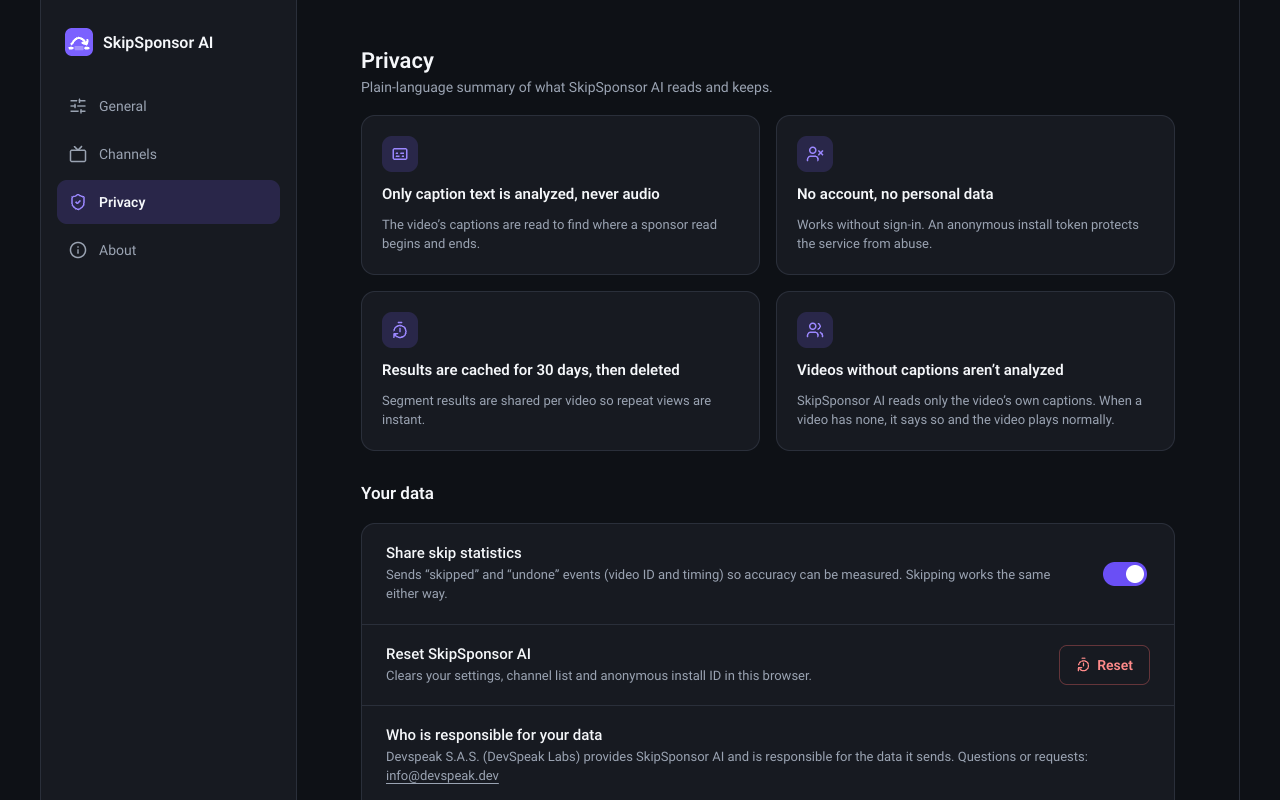
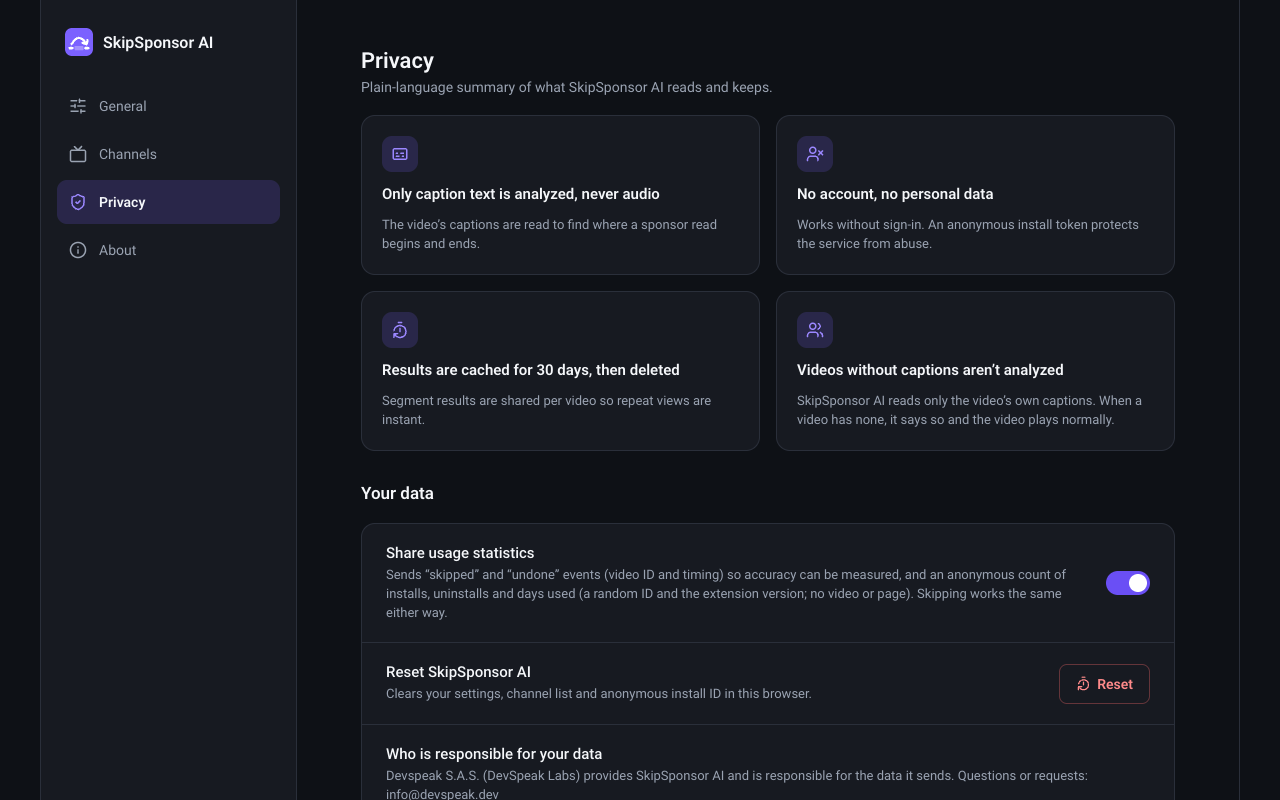
docs(store): marquee from brand art + real UI crops; Privacy screenshot with the usage switch
The marquee drops the 'Any language' chip and the designed player mock:
the right side is pure crops of the real popup and cut note from the store
screenshots (scripts/build-store-marquee.py). Screenshot 05 is recaptured
from the 1.1.0 store ZIP with 'Share usage statistics'.

diff --git a/scripts/build-store-marquee.py b/scripts/build-store-marquee.py
@@ -1,0 +1,83 @@
+#!/usr/bin/env python3
+"""Build the 1400x560 Chrome Web Store marquee from existing assets only.
+
+  python3 scripts/build-store-marquee.py
+
+Left: the brand lockup, headline and two feature chips cropped from the
+design export store/promo/marquee-1400x560.png (from design/SkipSponsorAI.pen),
+without the "Any language" chip (broader than what was tested). Right: pure
+crops of the extension's real UI from the store screenshots (the popup's
+header, timeline and segment list from 02, the cut note from 01), captured
+from the packaged build on a public YouTube page. Nothing is drawn except the
+background (the design's own base colour and purple glow), a rounded mask and
+a shadow. Writes store/promo/marquee-real-ui-1400x560.png (RGB, no alpha).
+"""
+from pathlib import Path
+
+from PIL import Image, ImageDraw, ImageFilter
+
+ROOT = Path(__file__).resolve().parent.parent
+STORE = ROOT / "store"
+W, H = 1400, 560
+BASE = (14, 17, 22)  # design background
+GLOW = (26, 22, 52)  # design's purple glow (top right of the original)
+
+
+def background() -> Image.Image:
+    bg = Image.new("RGB", (W, H), BASE)
+    glow = Image.new("L", (W, H), 0)
+    ImageDraw.Draw(glow).ellipse((700, -420, 1700, 520), fill=255)
+    glow = glow.filter(ImageFilter.GaussianBlur(160))
+    return Image.composite(Image.new("RGB", (W, H), GLOW), bg, glow)
+
+
+def rounded(img: Image.Image, r: int) -> Image.Image:
+    mask = Image.new("L", img.size, 0)
+    ImageDraw.Draw(mask).rounded_rectangle((0, 0, img.width - 1, img.height - 1), r, fill=255)
+    out = img.convert("RGBA")
+    out.putalpha(mask)
+    return out
+
+
+def paste_card(canvas: Image.Image, card: Image.Image, xy: tuple[int, int]) -> None:
+    shadow = Image.new("L", (card.width + 80, card.height + 80), 0)
+    ImageDraw.Draw(shadow).rounded_rectangle((40, 48, 40 + card.width, 48 + card.height), 16, fill=150)
+    shadow = shadow.filter(ImageFilter.GaussianBlur(18))
+    canvas.paste(Image.new("RGB", shadow.size, (0, 0, 0)), (xy[0] - 40, xy[1] - 40), shadow)
+    canvas.paste(card, xy, card)
+
+
+def main() -> None:
+    design = Image.open(STORE / "promo" / "marquee-1400x560.png").convert("RGB")
+    canvas = background()
+
+    # Left column from the design export, minus the third chip.
+    left = design.crop((0, 0, 620, H))
+    patch = left.crop((425, 420, 612, 470))  # plain background below the chips
+    left.paste(patch, (425, 362))
+    # Opaque up to x=560 (all text and chips), feathered to 0 at x=620.
+    fade = Image.new("L", (620, H), 255)
+    draw = ImageDraw.Draw(fade)
+    for x in range(560, 620):
+        draw.line((x, 0, x, H), fill=round(255 * (620 - x) / 60))
+    canvas.paste(left, (0, 0), fade)
+
+    # Real extension UI, cropped from the store screenshots (no edits).
+    popup = Image.open(STORE / "screenshots" / "02-see-what-it-found.png").convert("RGB")
+    popup = popup.crop((905, 18, 1245, 280))
+    k = 1.42
+    popup = popup.resize((round(popup.width * k), round(popup.height * k)), Image.Resampling.LANCZOS)
+    paste_card(canvas, rounded(popup, 14), (800, 58))
+
+    toast = Image.open(STORE / "screenshots" / "01-skips-sponsor-reads.png").convert("RGB")
+    toast = toast.crop((903, 548, 1263, 615))
+    toast = toast.resize((round(toast.width * k), round(toast.height * k)), Image.Resampling.LANCZOS)
+    paste_card(canvas, rounded(toast, 12), (700, 418))
+
+    out = STORE / "promo" / "marquee-real-ui-1400x560.png"
+    canvas.convert("RGB").save(out, optimize=True)
+    print(out.relative_to(ROOT), canvas.size)
+
+
+if __name__ == "__main__":
+    main()
